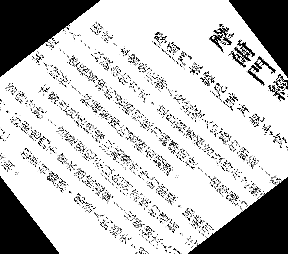
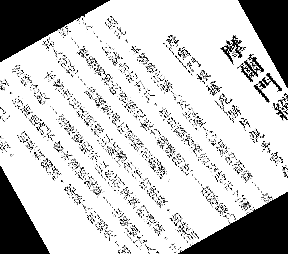
Add miltuprocess SAMPE

diff --git a/example.py b/example.py
@@ -4,7 +4,8 @@ from pyjaya.binary import JayaBinary
 from pyjaya.selfAdadtive import JayaSelfAdadtive
 from pyjaya.quasiOppositional import JayaQuasiOppositional
 from pyjaya.samp import JayaSAMP
-from pyjaya.sampe import JayaSAMPE
+# from pyjaya.sampe import JayaSAMPE
+from pyjaya.sampemultiprocess import JayaSAMPE
 from pyjaya.utils import FloatRange, IntRange, BinaryRange
 import numpy as np
 
@@ -30,47 +31,47 @@ def himmelblauConstraintTwo(solution):
 
 
 def main():
-    print("RUN: JayaClasic")
-    listVars = [FloatRange(-100.0, 100.0) for i in range(2)]
-    ja = JayaClasic(20, listVars, function1)
-    print(ja.run(100))
-    print("--------------------------------------------------------------")
-
-    print("RUN: JayaBinary")
-    listVars = [BinaryRange() for i in range(10)]
-    ja = JayaBinary(5, listVars, function2)
-    ja.toMaximize()
-    print(ja.run(100))
-    print("--------------------------------------------------------------")
-
-    print("RUN: JayaClasic")
-    listVars = [FloatRange(-100.0, 100.0) for i in range(2)]
-    ja = JayaClasic(20, listVars, function1)
-    print(ja.run(100))
-    print("--------------------------------------------------------------")
-
-    print("RUN: Self-adaptive Jaya Algorithm")
-    listVars = [FloatRange(-100.0, 100.0) for i in range(2)]
-    ja = JayaSelfAdadtive(listVars, function1)
-    print(ja.run(100))
-    print("--------------------------------------------------------------")
-
-    print("RUN: Quasi-oppositional Based Jaya (QO-Jaya) Algorithm")
-    listVars = [FloatRange(-100.0, 100.0) for i in range(2)]
-    ja = JayaQuasiOppositional(20, listVars, function1)
-    print(ja.run(100))
-    print("--------------------------------------------------------------")
-
-    print("RUN: Self-adaptive Multi-population (SAMP) Jaya Algorithm")
-    listVars = [FloatRange(-100.0, 100.0) for i in range(2)]
-    ja = JayaSAMP(20, listVars, function1)
-    print(ja.run(100))
-    print("--------------------------------------------------------------")
+    # print("RUN: JayaClasic")
+    # listVars = [FloatRange(-100.0, 100.0) for i in range(2)]
+    # ja = JayaClasic(20, listVars, function1)
+    # print(ja.run(100))
+    # print("--------------------------------------------------------------")
+    #
+    # print("RUN: JayaBinary")
+    # listVars = [BinaryRange() for i in range(10)]
+    # ja = JayaBinary(5, listVars, function2)
+    # ja.toMaximize()
+    # print(ja.run(100))
+    # print("--------------------------------------------------------------")
+    #
+    # print("RUN: JayaClasic")
+    # listVars = [FloatRange(-100.0, 100.0) for i in range(2)]
+    # ja = JayaClasic(20, listVars, function1)
+    # print(ja.run(100))
+    # print("--------------------------------------------------------------")
+    #
+    # print("RUN: Self-adaptive Jaya Algorithm")
+    # listVars = [FloatRange(-100.0, 100.0) for i in range(2)]
+    # ja = JayaSelfAdadtive(listVars, function1)
+    # print(ja.run(100))
+    # print("--------------------------------------------------------------")
+    #
+    # print("RUN: Quasi-oppositional Based Jaya (QO-Jaya) Algorithm")
+    # listVars = [FloatRange(-100.0, 100.0) for i in range(2)]
+    # ja = JayaQuasiOppositional(20, listVars, function1)
+    # print(ja.run(100))
+    # print("--------------------------------------------------------------")
+    #
+    # print("RUN: Self-adaptive Multi-population (SAMP) Jaya Algorithm")
+    # listVars = [FloatRange(-100.0, 100.0) for i in range(2)]
+    # ja = JayaSAMP(20, listVars, function1)
+    # print(ja.run(100))
+    # print("--------------------------------------------------------------")
 
     print("RUN: Self-adaptive Multi-population Elitist (SAMPE) Jaya Algorithm")
-    listVars = [FloatRange(-100.0, 100.0) for i in range(2)]
-    ja = JayaSAMPE(20, listVars, function1)
-    print(ja.run(100))
+    listVars = [FloatRange(-100.0, 100.0) for i in range(20)]
+    ja = JayaSAMPE(100, listVars, function1)
+    print(ja.run(80))
     print("--------------------------------------------------------------")
 
 

diff --git a/pyjaya/sampemultiprocess.py b/pyjaya/sampemultiprocess.py
@@ -1,0 +1,101 @@
+# -*- coding: utf-8 -*-
+from .base import JayaBase
+from .population import Population
+from .solution import Solution
+from multiprocessing import Process, Queue, current_process, freeze_support
+import numpy as np
+
+
+class JayaSAMPE(JayaBase):
+
+    def sprint(self, population):
+        result = population.getBestAndWorst()
+        r1 = np.random.rand(self.cantVars)
+        r2 = np.random.rand(self.cantVars)
+        for solution in population.solutions:
+            solt = []
+            for v_item, v_value in enumerate(solution.solution):
+                solt.append(self.listVars[v_item].convert(
+                    (v_value+r1[v_item] * (result['best_solution'][v_item] - abs(v_value)) - r2[v_item] * (result['worst_solution'][v_item]-abs(v_value)))
+                ))
+            auxSolution = Solution(
+                self.listVars, self.functionToEvaluate,
+                self.listConstraints)
+            auxSolution.setSolution(np.array(solt))
+            if self.minimax:
+                if (auxSolution.value > solution.value) and \
+                        (auxSolution.constraintsOK(np.array(solt))):
+                    solution = auxSolution
+            else:
+                if (auxSolution.value < solution.value) and \
+                        (auxSolution.constraintsOK(np.array(solt))):
+                    solution.setSolution(auxSolution.solution)
+        return population
+
+    @staticmethod
+    def worker(input, output):
+        for sampe, population in iter(input.get, 'STOP'):
+            result = sampe.sprint(population)
+            output.put(result)
+
+    def generate(self, m):
+        NUMBER_OF_PROCESSES = m
+
+        input_queue = Queue()
+        output_queue = Queue()
+
+        subPopulations = list()
+        TASKS = [(self, p) for p in self.population.divideInToWithElitist(m)]
+        [input_queue.put(e) for e in TASKS]
+
+        for i in range(NUMBER_OF_PROCESSES):
+            Process(
+                target=JayaSAMPE.worker, args=(
+                    input_queue, output_queue)).start()
+
+        # Get results of sprint
+        for i in range(len(TASKS)):
+            subPopulations.append(output_queue.get())
+
+        # Tell child processes to stop
+        for i in range(NUMBER_OF_PROCESSES):
+            input_queue.put('STOP')
+
+        newPopulation = Population(self.minimax)
+        newPopulation.merge(subPopulations)
+        new_best_value = newPopulation.getBestAndWorst()['best_value']
+        old_best_value = self.population.getBestAndWorst()['best_value']
+
+        if self.minimax:
+            if new_best_value > old_best_value:
+                self.population = newPopulation
+        else:
+            if new_best_value < old_best_value:
+                self.population = newPopulation
+
+    def run(self, number_iterations):
+        result = self.population.getBestAndWorst()
+        bestValue = result['best_value']
+        m = 2
+        for i in range(number_iterations):
+            if i == 0:
+                self.generate(2)
+            else:
+                if self.minimax:
+                    bV = self.population.getBestAndWorst()['best_value']
+                    if bV > bestValue:
+                        if m < self.numSolutions:
+                            m += 1
+                        bestValue = bV
+                    elif m > 1:
+                        m -= 1
+                else:
+                    bV = self.population.getBestAndWorst()['best_value']
+                    if bV < bestValue:
+                        if m < self.numSolutions:
+                            m += 1
+                        bestValue = bV
+                    elif m > 1:
+                        m -= 1
+                self.generate(m)
+        return self.population.getBestAndWorst()

diff --git a/example_aling_handwritten_document.py b/example_aling_handwritten_document.py
@@ -1,9 +1,13 @@
 # -*- coding: utf-8 -*-
 from pyjaya.clasic import JayaClasic
+# from pyjaya.sampe import JayaSAMPE
+from pyjaya.sampemultiprocess import JayaSAMPE
 from pyjaya.utils import FloatRange
 import numpy as np
 from PIL import Image
 from skimage import feature
+import time
+import multiprocessing as mp
 
 
 def function(solution):
@@ -25,13 +29,16 @@ def function(solution):
 
 
 def main():
+    start = time.time()
     print("RUN: JayaClasic")
     listVars = [FloatRange(0.0, 180.0)]
-    jc = JayaClasic(20, listVars, function)
+    # jc = JayaClasic(20, listVars, function)
+    jc = JayaSAMPE(20, listVars, function)
     jc.toMaximize()
     result = jc.run(20)
     print(result)
     print("--------------------------------------------------------------")
+    print('It took', time.time()-start, 'seconds.')
     img = Image.open(
         'static/IMG_0039.png'
     ).convert('L').rotate(result['best_solution']).save('static/aling_handwritten_document.png')
